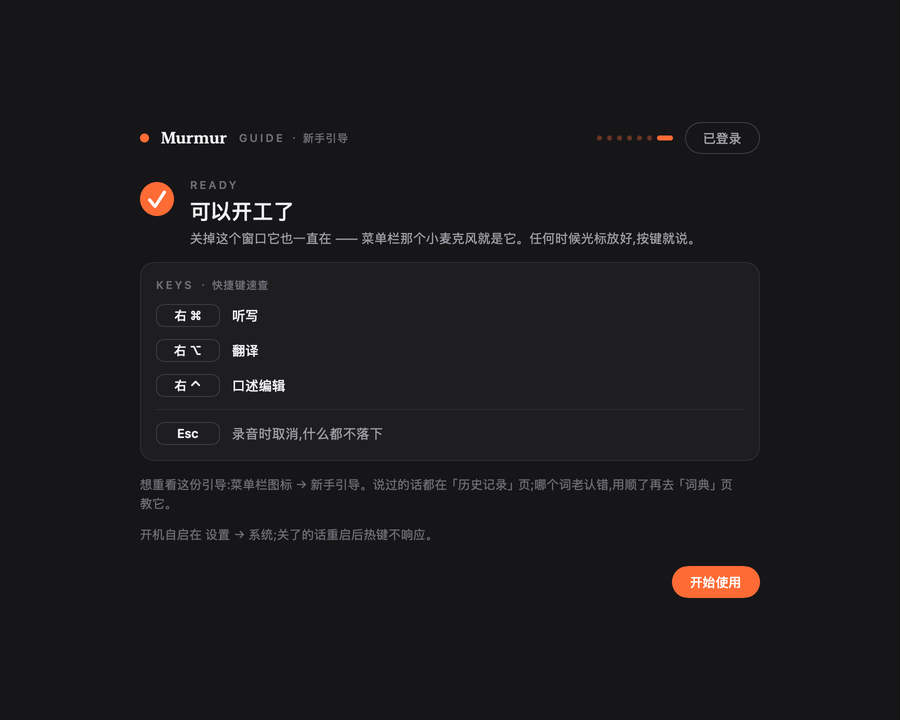
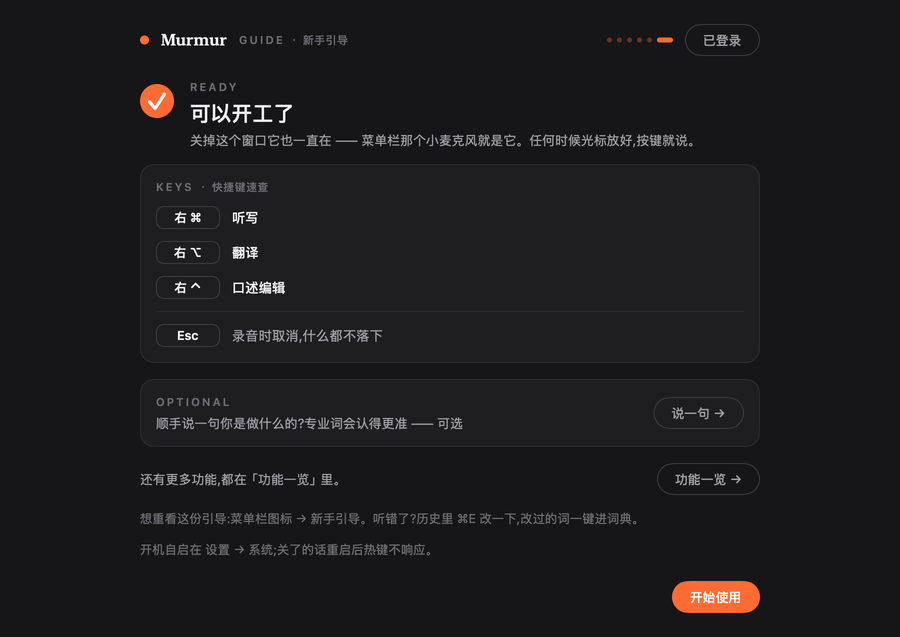
W7 换真截图:指南四处设置卡 + 首页新手引导(中文浅深、英文浅)
为什么:上一轮指南页留了 8 处 `<!-- shot: … -->` 文字图框,首页英文版的新手引导暂用中文图;
INT 今天出了 0.53 的真截图。另外首页那两张中文引导图是 09-26 的旧版:0.53 的第一页改成
「先学一个键:右 ⌘」,alt 里还写着「列出三个键」,对不上了。

改了什么:
- 指南 #fuzzy / #smart / #look / #scene 换成真图(zh 页浅深 <picture>,en 页浅色)。
  拼音方式、候选字号、强调色、候选排列是系统选择框,离屏出图画成黄底禁止符,所以
  #fuzzy 只截模糊音一栏、#look 只截卡上的预览(预览无界面字,en 页共用 zh 浅深两张)。
- 首页收尾:zh 引导两张换 0.53 版(高 980/720 → 638/637,alt 与图注跟着改);
  en 页换成英文渲染,只有浅色,不带深色 source。
- 仍是文字图框的,注释写明原因:#install(INT 那张是开发构建,卡上写「此版本未附带输入法」)、
  #cloud 云位、#phrases 管理快捷短语页(现有出图项里没有)。#prompt-skills 留给 W8。
- 尺寸:统一缩到 900 宽,重存只含 IHDR/IDAT/IEND;最大一张 en/settings-ime-smart-light 239 KB。
  裁图脚本在审计目录 W2/tools/。shots/README.md 补来源表。
- copy-lint PASS;内链 15 页 323 个 0 不可达(改坏一个 srcset 证过红,已还原)。

diff --git a/en/guide/index.html b/en/guide/index.html
@@ -61,7 +61,7 @@
         <div class="g-row"><span class="k">Where</span><div>Settings → Input Method → the Input method card. Update and Uninstall are on the same card. Uninstall keeps your words, dictionary and settings.</div></div>
       </div>
       <figure class="py-shot"><img src="../../shots/en/nihao.png" alt="Murmur candidate bar: ni hao, candidates 1 你好 2 尼好 3 拟好 4 泥好 5 妮好" width="925" height="184" loading="lazy"><figcaption>After switching to Murmur, typing ni hao shows this candidate bar.</figcaption></figure>
-      <!-- shot: settings-ime-install (first card of the Input Method tab, en light) -->
+      <!-- shot: settings-ime-install still missing. The INT render is a dev build whose card says the input method is not bundled; that is not what a 0.53 user sees. -->
     </div>
   </section>
 
@@ -96,8 +96,8 @@
         </div></div>
         <div class="g-row"><span class="k">Where</span><div>Settings → Input Method → Pinyin style and fuzzy pinyin. Full Pinyin is the default; Flypy and Ziranma double pinyin are the other two. Fuzzy pinyin has nine pairs, all off by default.</div></div>
       </div>
-      <!-- shot: settings-ime-fuzzy (Pinyin style and fuzzy pinyin card, en light) -->
-      <figure class="py-shot"><p><kbd>Settings</kbd> → <kbd>Input Method</kbd> → <kbd>Pinyin style and fuzzy pinyin</kbd></p><figcaption>Full Pinyin, Flypy or Ziranma.</figcaption></figure>
+      <!-- Real screenshot settings-ime-fuzzy (INT render 2026-10-01). The Pinyin style row is a system popup that offscreen rendering cannot draw, so only the fuzzy pinyin part is shown. -->
+      <figure class="py-shot"><picture><img src="../../shots/en/settings-ime-fuzzy-light.png" width="900" height="366" loading="lazy" alt="The fuzzy pinyin part of Settings: nine pairs, z⇄zh, c⇄ch, s⇄sh, n⇄l, l⇄r, an⇄ang, en⇄eng, in⇄ing and f⇄h, none ticked. Above is a note on double pinyin; below, a note that a ticked pair works both ways."></picture><figcaption>The fuzzy pinyin part of the card. All nine pairs are off by default.</figcaption></figure>
     </div>
   </section>
 
@@ -115,8 +115,8 @@
         </div></div>
         <div class="g-row"><span class="k">Where</span><div>Settings → Input Method → Smart input. Each rule has its own switch. <b>Off by default:</b> pairing brackets and quotes, a space between Chinese and English, and the emoji panel. The rest are on.</div></div>
       </div>
-      <!-- shot: settings-ime-smart (Smart input card, en light) -->
-      <figure class="py-shot"><p><kbd>Settings</kbd> → <kbd>Input Method</kbd> → <kbd>Smart input</kbd></p><figcaption>Each rule has its own switch.</figcaption></figure>
+      <!-- Real screenshot settings-ime-smart (INT render 2026-10-01), default values -->
+      <figure class="py-shot"><picture><img src="../../shots/en/settings-ime-smart-light.png" width="900" height="800" loading="lazy" alt="The Smart input card in Settings. Under smart punctuation: full-width punctuation in Chinese, pair brackets and quotes, half-width . and : after digits, two periods make an ellipsis, underscore types a dash, space between Chinese and English or digits. Then URL and email pass-through, and the emoji and symbol panel. Pairing, spacing and the emoji panel are unticked."></picture><figcaption>The Smart input card. Each rule has its own switch. The three unticked rules are off by default.</figcaption></figure>
     </div>
   </section>
 
@@ -132,8 +132,8 @@
         </div></div>
         <div class="g-row"><span class="k">Where</span><div>Settings → Input Method → Candidate window. Standard, Coral and horizontal are the defaults. The card has a preview, and changes apply right away with no restart.</div></div>
       </div>
-      <!-- shot: ime-look (three sizes / five accent colours / vertical, en light) -->
-      <figure class="py-shot"><p><kbd>Settings</kbd> → <kbd>Input Method</kbd> → <kbd>Candidate window</kbd></p><figcaption>The card has a preview.</figcaption></figure>
+      <!-- Real screenshot ime-look: only the preview on the card (INT render 2026-10-01). The preview has no interface text, so the zh files are used, light and dark. -->
+      <figure class="py-shot"><picture><source srcset="../../shots/zh/ime-look-dark.png" media="(prefers-color-scheme: dark)"><img src="../../shots/zh/ime-look-light.png" width="900" height="156" loading="lazy" alt="The candidate window preview in Settings: shu ru fa, candidates 1 输入法 2 书入法 3 数入法 4 输入 5 书, with the second one highlighted."></picture><figcaption>The preview on the Candidate window card, with the defaults: standard size, coral, horizontal.</figcaption></figure>
     </div>
   </section>
 
@@ -150,7 +150,7 @@
         </div></div>
         <div class="g-row"><span class="k">Where</span><div><b>Off by default. Sign-in required.</b> Turn it on in Settings → Input Method → Cloud candidates (preview). A confirmation page comes first. "Request automatically when I pause" is also off by default.</div></div>
       </div>
-      <!-- shot: ime-cloud-slot (cloud slot at the end of the candidate bar, en light) -->
+      <!-- shot: ime-cloud-slot still missing: no existing render shows the cloud slot. The disclosure text stays. -->
       <figure class="py-shot"><p class="py-quote">Once this is on, the pinyin you have not committed yet is sent to the Murmur server and passed on to a third-party model service to guess the whole sentence; what you are typing can be inferred from it. Text you have already committed, your personal lexicon and which app you are in are not sent. After you turn it off, no new requests are sent; what has already been sent cannot be taken back.</p><figcaption>The text next to the switch in Settings.</figcaption></figure>
     </div>
   </section>
@@ -170,7 +170,7 @@
           <p>Dictation: the Dictionary page in the main window sidebar, Snippets card.</p>
         </div></div>
       </div>
-      <!-- shot: ime-phrases (Manage shortcut phrases sheet, en light) -->
+      <!-- shot: ime-phrases still missing: no existing render shows the Manage shortcut phrases sheet. The text example stays. -->
       <figure class="py-shot"><p><span class="mono">dz</span> → your address</p><figcaption>Input method phrases: type the code, the phrase is the first candidate.</figcaption></figure>
     </div>
   </section>
@@ -226,8 +226,8 @@
         <div class="g-row"><span class="k">Where</span><div><b>On by default.</b> Settings → Cleanup → Cleanup by scene.</div></div>
         <p class="g-note">It reads the app identifier and the field type, plus the page host name in supported browsers. The host name is not sent. The scene name goes with the cleanup request to the cleanup model.</p>
       </div>
-      <!-- shot: settings-scene-on (Cleanup by scene card, en light) -->
-      <figure class="py-shot"><p><kbd>Settings</kbd> → <kbd>Cleanup</kbd> → <kbd>Cleanup by scene</kbd></p><figcaption>The card shows which scene the front app is recognised as.</figcaption></figure>
+      <!-- Real screenshot settings-scene-on (INT render 2026-10-01); the front app is the render sample, Mail -->
+      <figure class="py-shot"><picture><img src="../../shots/en/settings-scene-on-light.png" width="900" height="457" loading="lazy" alt="The Cleanup by scene card in Settings, switched on. Front app: Mail, recognised as Email. Below, a scene per app: Mail, Safari and Terminal are all set to Auto."></picture><figcaption>The card shows which scene the front app is recognised as.</figcaption></figure>
     </div>
   </section>
 

diff --git a/guide/index.html b/guide/index.html
@@ -62,7 +62,7 @@
         <div class="g-row"><span class="k">在哪打开</span><div>设置 → 输入法 →「输入法」卡。更新、卸载也在这张卡。卸载保留打过的词、词典和设置。</div></div>
       </div>
       <figure class="py-shot"><img src="../shots/zh/nihao.png" alt="Murmur 候选窗:ni hao,候选 1 你好 2 尼好 3 拟好 4 泥好 5 妮好" width="925" height="184" loading="lazy"><figcaption>切到 Murmur 后打 ni hao,出来的候选窗。</figcaption></figure>
-      <!-- shot: settings-ime-install(设置 → 输入法 页签第一张卡,zh 浅 / 深) -->
+      <!-- shot: settings-ime-install 仍缺。INT 那张是开发构建,卡上写「此版本未附带输入法」,和装好 0.53 的人看到的不一样,不能用。 -->
     </div>
   </section>
 
@@ -97,8 +97,8 @@
         </div></div>
         <div class="g-row"><span class="k">在哪打开</span><div>设置 → 输入法 →「拼音方式与模糊音」卡。拼音方式默认全拼,可选小鹤双拼、自然码双拼。模糊音一共 9 对,默认全关。</div></div>
       </div>
-      <!-- shot: settings-ime-fuzzy(拼音方式与模糊音卡,zh 浅 / 深) -->
-      <figure class="py-shot"><p><kbd>设置</kbd> → <kbd>输入法</kbd> → <kbd>拼音方式与模糊音</kbd></p><figcaption>全拼、小鹤双拼、自然码双拼三选一。</figcaption></figure>
+      <!-- 真截图 settings-ime-fuzzy(INT 出图 2026-10-01)。「拼音方式」那一行是系统选择框,离屏出图画不出,只截模糊音一栏。 -->
+      <figure class="py-shot"><picture><source srcset="../shots/zh/settings-ime-fuzzy-dark.png" media="(prefers-color-scheme: dark)"><img src="../shots/zh/settings-ime-fuzzy-light.png" width="900" height="339" loading="lazy" alt="设置里的模糊音一栏:z⇄zh、c⇄ch、s⇄sh、n⇄l、l⇄r、an⇄ang、en⇄eng、in⇄ing、f⇄h 九对,都没勾。上方一段说明双拼,下方一段说明勾上后两头通用。"></picture><figcaption>「拼音方式与模糊音」卡的模糊音一栏。9 对默认全关。</figcaption></figure>
     </div>
   </section>
 
@@ -116,8 +116,8 @@
         </div></div>
         <div class="g-row"><span class="k">在哪打开</span><div>设置 → 输入法 →「智能输入」卡,每条规则单独开关。<b>默认关的三条:</b>括号引号自动配对、中英文之间自动加空格、Emoji 面板。其余默认开。</div></div>
       </div>
-      <!-- shot: settings-ime-smart(智能输入卡,zh 浅 / 深) -->
-      <figure class="py-shot"><p><kbd>设置</kbd> → <kbd>输入法</kbd> → <kbd>智能输入</kbd></p><figcaption>每条规则单独开关。</figcaption></figure>
+      <!-- 真截图 settings-ime-smart(INT 出图 2026-10-01),默认值那一态 -->
+      <figure class="py-shot"><picture><source srcset="../shots/zh/settings-ime-smart-dark.png" media="(prefers-color-scheme: dark)"><img src="../shots/zh/settings-ime-smart-light.png" width="900" height="722" loading="lazy" alt="设置里的「智能输入」卡。智能标点下有六条:全角标点、括号引号配对、数字后用半角、省略号、破折号、中英文之间加空格。另有网址 / 邮箱直通和 Emoji / 符号面板。配对、加空格、Emoji 三条没勾。"></picture><figcaption>「智能输入」卡,每条规则单独开关。没勾的三条是默认关的。</figcaption></figure>
     </div>
   </section>
 
@@ -133,8 +133,8 @@
         </div></div>
         <div class="g-row"><span class="k">在哪打开</span><div>设置 → 输入法 →「候选窗外观」卡。默认标准字号、珊瑚、横排。卡上有预览,选了马上生效,不用重启输入法。</div></div>
       </div>
-      <!-- shot: ime-look(候选窗三档字号 / 五个强调色 / 竖排,zh 浅 / 深) -->
-      <figure class="py-shot"><p><kbd>设置</kbd> → <kbd>输入法</kbd> → <kbd>候选窗外观</kbd></p><figcaption>卡上有预览。</figcaption></figure>
+      <!-- 真截图 ime-look 只截了卡上的预览(INT 出图 2026-10-01)。字号 / 强调色 / 排列三个是系统选择框,离屏出图画不出。 -->
+      <figure class="py-shot"><picture><source srcset="../shots/zh/ime-look-dark.png" media="(prefers-color-scheme: dark)"><img src="../shots/zh/ime-look-light.png" width="900" height="156" loading="lazy" alt="设置里的候选窗预览:shu ru fa,候选 1 输入法 2 书入法 3 数入法 4 输入 5 书,第 2 个高亮。"></picture><figcaption>「候选窗外观」卡上的预览,默认标准字号、珊瑚色、横排。</figcaption></figure>
     </div>
   </section>
 
@@ -151,7 +151,7 @@
         </div></div>
         <div class="g-row"><span class="k">在哪打开</span><div><b>默认关,要登录。</b>在 设置 → 输入法 →「云候选(预览)」卡打开,打开前有一页确认。「停顿时自动请求」也默认关。</div></div>
       </div>
-      <!-- shot: ime-cloud-slot(候选条末尾的云位,zh 浅 / 深) -->
+      <!-- shot: ime-cloud-slot 仍缺:现有出图项里没有带云位的候选条。保留披露原文。 -->
       <figure class="py-shot"><p class="py-quote">开启后,尚未上屏的拼音会发到 Murmur 服务器,并转给第三方模型服务来猜整句;据此可以推断你正在输入的内容。不发已上屏的文字、不发你打过的词、不发你在哪个 App。关掉后不再发新的请求;已经发出的收不回。</p><figcaption>设置里开关旁的说明原文。</figcaption></figure>
     </div>
   </section>
@@ -171,7 +171,7 @@
           <p>听写的:主窗口侧栏「词典」页,「快捷短语」卡。</p>
         </div></div>
       </div>
-      <!-- shot: ime-phrases(管理快捷短语页,zh 浅 / 深) -->
+      <!-- shot: ime-phrases 仍缺:现有出图项里没有「管理快捷短语」页。保留文字示例。 -->
       <figure class="py-shot"><p><span class="mono">dz</span> → 你的地址</p><figcaption>输入法的快捷短语:打编码,候选第一个是短语。</figcaption></figure>
     </div>
   </section>
@@ -228,8 +228,8 @@
         <div class="g-row"><span class="k">在哪打开</span><div><b>默认开。</b>设置 → 整理 →「按场景整理」卡。</div></div>
         <p class="g-note">它读应用标识和输入框类型,在支持的浏览器里还读页面的主机名。主机名不发送。场景名随整理请求发给整理模型。</p>
       </div>
-      <!-- shot: settings-scene-on(按场景整理卡,zh 浅 / 深) -->
-      <figure class="py-shot"><p><kbd>设置</kbd> → <kbd>整理</kbd> → <kbd>按场景整理</kbd></p><figcaption>卡上显示当前前台 App 被识别成哪个场景。</figcaption></figure>
+      <!-- 真截图 settings-scene-on(INT 出图 2026-10-01),前台 App 是出图样例 Mail -->
+      <figure class="py-shot"><picture><source srcset="../shots/zh/settings-scene-on-dark.png" media="(prefers-color-scheme: dark)"><img src="../shots/zh/settings-scene-on-light.png" width="900" height="410" loading="lazy" alt="设置里的「按场景整理」卡:开关已勾。当前前台 App:Mail,识别为「邮件」。下面按 App 指定场景,Mail、Safari、终端都是「自动」。"></picture><figcaption>「按场景整理」卡上显示当前前台 App 被识别成哪个场景。</figcaption></figure>
     </div>
   </section>
 

diff --git a/en/index.html b/en/index.html
@@ -1057,22 +1057,20 @@ body.is-sandbox .sandbox { display: inline-block; }
     </picture>
     <figcaption>A real screenshot. While you speak, this bar sits at the bottom of the screen. Press again or click ✓ and the words land at your cursor.</figcaption>
   </figure>
-  <!-- ⚠ These two are the zh renders (no en onboarding render yet; "en shots pending" is in the W report).
-       Swap to ../shots/en/welcome-*.png / done-*.png once D renders them with MURMUR_SHOT_LANG=en. -->
+  <!-- 2026-10-01: en onboarding renders (INT, MURMUR_SHOT_LANG=en). Only a light render exists in English,
+       so these two have no dark source; a dark page shows the light screenshot. -->
   <div class="real-shots reveal">
     <figure class="real-shot">
       <picture>
-        <source srcset="../shots/zh/welcome-dark.png" media="(prefers-color-scheme: dark)">
-        <img src="../shots/zh/welcome-light.png" width="900" height="980" loading="lazy"
-             alt="Murmur onboarding, first page, Chinese interface. The heading says: speak to your computer and get tidy text. Below it are the keys for dictation, translation and editing by voice, and the recognition language.">
+        <img src="../shots/en/welcome-light.png" width="900" height="676" loading="lazy"
+             alt="Murmur onboarding, first page. Heading: Talk to your computer. What comes out is clean text. Below it are the recording capsule, a card that says to learn one key first, Right ⌘, and the recognition language.">
       </picture>
-      <figcaption>First launch: a short onboarding that walks you through one dictation. Shown here in the Chinese interface.</figcaption>
+      <figcaption>First launch: a short onboarding that starts with one key, Right ⌘.</figcaption>
     </figure>
     <figure class="real-shot">
       <picture>
-        <source srcset="../shots/zh/done-dark.png" media="(prefers-color-scheme: dark)">
-        <img src="../shots/zh/done-light.png" width="900" height="720" loading="lazy"
-             alt="Murmur onboarding, last page, Chinese interface. The heading says: ready to go. Below it is a shortcut list: right ⌘ dictate, right ⌥ translate, right ⌃ edit by voice, Esc cancel.">
+        <img src="../shots/en/done-light.png" width="900" height="696" loading="lazy"
+             alt="Murmur onboarding, last page. Heading: Ready to work. A quick reference lists Right ⌘ dictation, Right ⌥ translate, Right ⌃ voice edit and Esc cancel. Below it is a link to the Features page.">
       </picture>
       <figcaption>The last page lists the shortcuts. You can open it again from the menu bar.</figcaption>
     </figure>

diff --git a/index.html b/index.html
@@ -1056,16 +1056,16 @@ body.is-sandbox .sandbox { display: inline-block; }
     <figure class="real-shot">
       <picture>
         <source srcset="shots/zh/welcome-dark.png" media="(prefers-color-scheme: dark)">
-        <img src="shots/zh/welcome-light.png" width="900" height="980" loading="lazy"
-             alt="Murmur 新手引导第一页截图。标题:对着电脑说话,出来的是整理好的文字。下面列出听写、翻译、口述编辑三个键,和识别语言。">
+        <img src="shots/zh/welcome-light.png" width="900" height="638" loading="lazy"
+             alt="Murmur 新手引导第一页截图。标题:对着电脑说话,出来的是整理好的文字。下面是录音条示意、先学一个键:右 ⌘,和识别语言。">
       </picture>
-      <figcaption>第一次打开:新手引导,跟着练一遍,两分钟。</figcaption>
+      <figcaption>第一次打开:新手引导,先学右 ⌘ 一个键。</figcaption>
     </figure>
     <figure class="real-shot">
       <picture>
         <source srcset="shots/zh/done-dark.png" media="(prefers-color-scheme: dark)">
-        <img src="shots/zh/done-light.png" width="900" height="720" loading="lazy"
-             alt="Murmur 新手引导最后一页截图。标题:可以开工了。下面是快捷键速查:右 ⌘ 听写,右 ⌥ 翻译,右 ⌃ 口述编辑,Esc 取消。">
+        <img src="shots/zh/done-light.png" width="900" height="637" loading="lazy"
+             alt="Murmur 新手引导最后一页截图。标题:可以开工了。下面是快捷键速查:右 ⌘ 听写,右 ⌥ 翻译,右 ⌃ 口述编辑,Esc 取消。再往下是「功能一览」的入口。">
       </picture>
       <figcaption>引导走完:快捷键速查,菜单栏里随时能再打开。</figcaption>
     </figure>

diff --git a/shots/README.md b/shots/README.md
@@ -14,3 +14,20 @@
 | `zh/hud-{light,dark}.png` | Murmur 录音条截图。底部胶囊有取消键、波形、计时 0:08 和打勾键,上方是正在出的字:好,我看一下。 | Murmur recording bar. A capsule at the bottom of the screen with a cancel button, a waveform, a 0:08 timer and a check button; above it, the words appearing as you speak. |
 | `zh/welcome-{light,dark}.png` | Murmur 新手引导第一页截图。标题:对着电脑说话,出来的是整理好的文字。下面列出听写、翻译、口述编辑三个键,和识别语言。 | Murmur onboarding, first page: "Talk to your computer. What comes out is clean text." Lists the three keys (dictate, translate, voice edit) and the recognition language. |
 | `zh/done-{light,dark}.png` | Murmur 新手引导最后一页截图。标题:可以开工了。下面是快捷键速查:右 ⌘ 听写,右 ⌥ 翻译,右 ⌃ 口述编辑,Esc 取消。 | Murmur onboarding, last page: "Ready to work." Key cheat sheet: Right ⌘ dictate, Right ⌥ translate, Right ⌃ voice edit, Esc cancel. |
+
+# 0.53 新手引导与设置页真截图(2026-10-01 换)
+
+- 来源:murmur-ime worktree `ob-int`(builder INT,2026-10-01)离屏出图,原图在审计目录 `onboarding-site/INT/site-shots/`。
+- 处理:引导两张从 1800 宽缩到 900 宽;设置卡按卡片边界自动裁(脚本在审计目录 `W2/`),缩到 900 宽;全部重存为只含 IHDR/IDAT/IEND 的 PNG,单张 ≤ 300 KB。
+- 文字是出图样例,不含邮箱、账号、密钥、个人信息(逐张看过;场景卡的前台 App「Mail」是出图样例)。
+- 系统选择框(拼音方式、候选字号、强调色、候选排列)离屏出图画不出,所以模糊音只截下半栏、候选窗外观只截预览。
+- 英文只有浅色:en 页的这几张不带深色 source。ime-look 预览里没有界面字,en 页直接用 zh 的浅深两张。
+
+| 文件 | 用在 |
+|---|---|
+| `zh/welcome-{light,dark}.png` `zh/done-{light,dark}.png` | 首页收尾(换成 0.53 的新版引导:第一页先学右 ⌘,最后一页多了「功能一览」) |
+| `en/welcome-light.png` `en/done-light.png` | 英文首页收尾 |
+| `zh/settings-ime-fuzzy-*` `en/settings-ime-fuzzy-light` | 指南 #fuzzy |
+| `zh/settings-ime-smart-*` `en/settings-ime-smart-light` | 指南 #smart |
+| `zh/ime-look-{light,dark}.png` | 指南 #look(中英两页共用) |
+| `zh/settings-scene-on-*` `en/settings-scene-on-light` | 指南 #scene |
